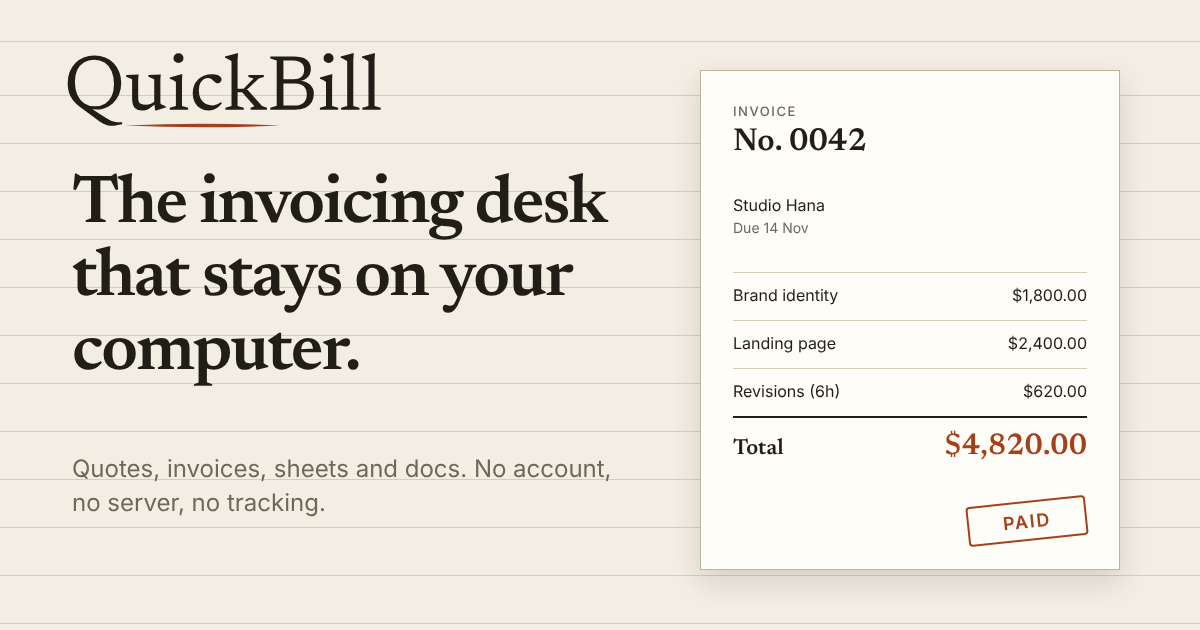
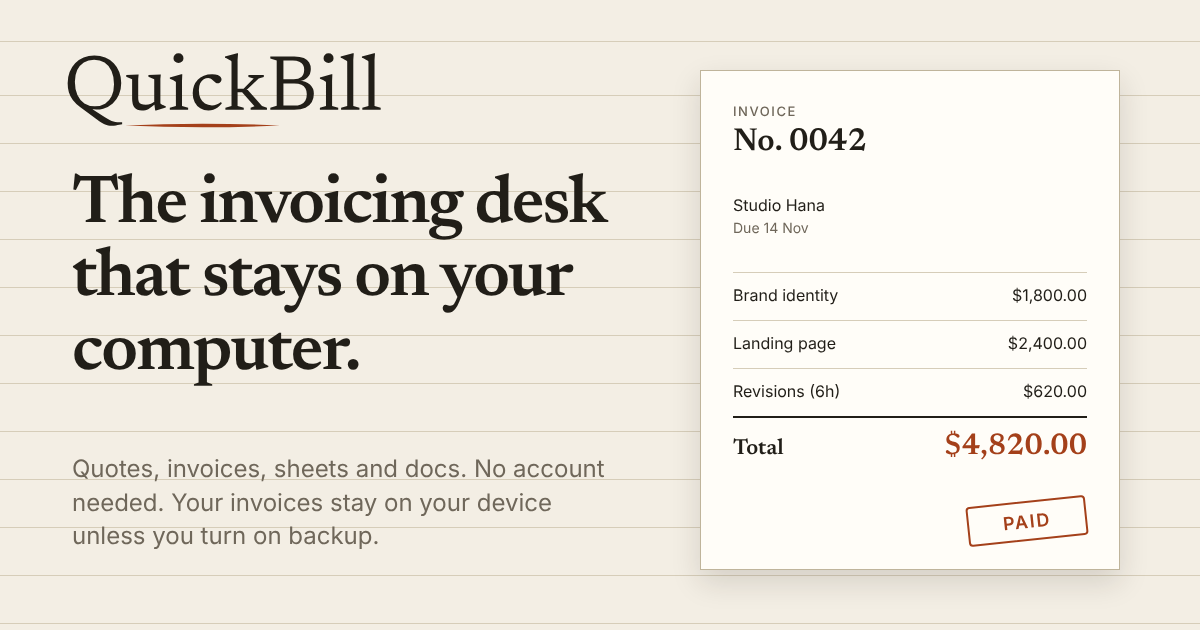
QuickBill: drop 'no server' from OG image
Claude-Session: https://claude.ai/code/session_01CBN3FTEk5BAimpw5X97bmU

Changed region(s): [[0.0617, 0.7841, 0.4625, 0.8143], [0.0617, 0.8444, 0.3083, 0.8746]]

diff --git a/design/og.html b/design/og.html
@@ -24,7 +24,7 @@ p{position:absolute;left:72px;top:452px;width:560px;font-size:24px;line-height:1
 </style>
 <div class="brand"><img src="../logo.svg" alt="QuickBill"></div>
 <h1>The invoicing desk that stays on your computer.</h1>
-<p>Quotes, invoices, sheets and docs. No account, no server, no tracking.</p>
+<p>Quotes, invoices, sheets and docs. No account needed. Your invoices stay on your device unless you turn on backup.</p>
 <div class="card">
   <div class="k">INVOICE</div><div class="no">No. 0042</div>
   <div class="who">Studio Hana</div><div class="due">Due 14 Nov</div>
